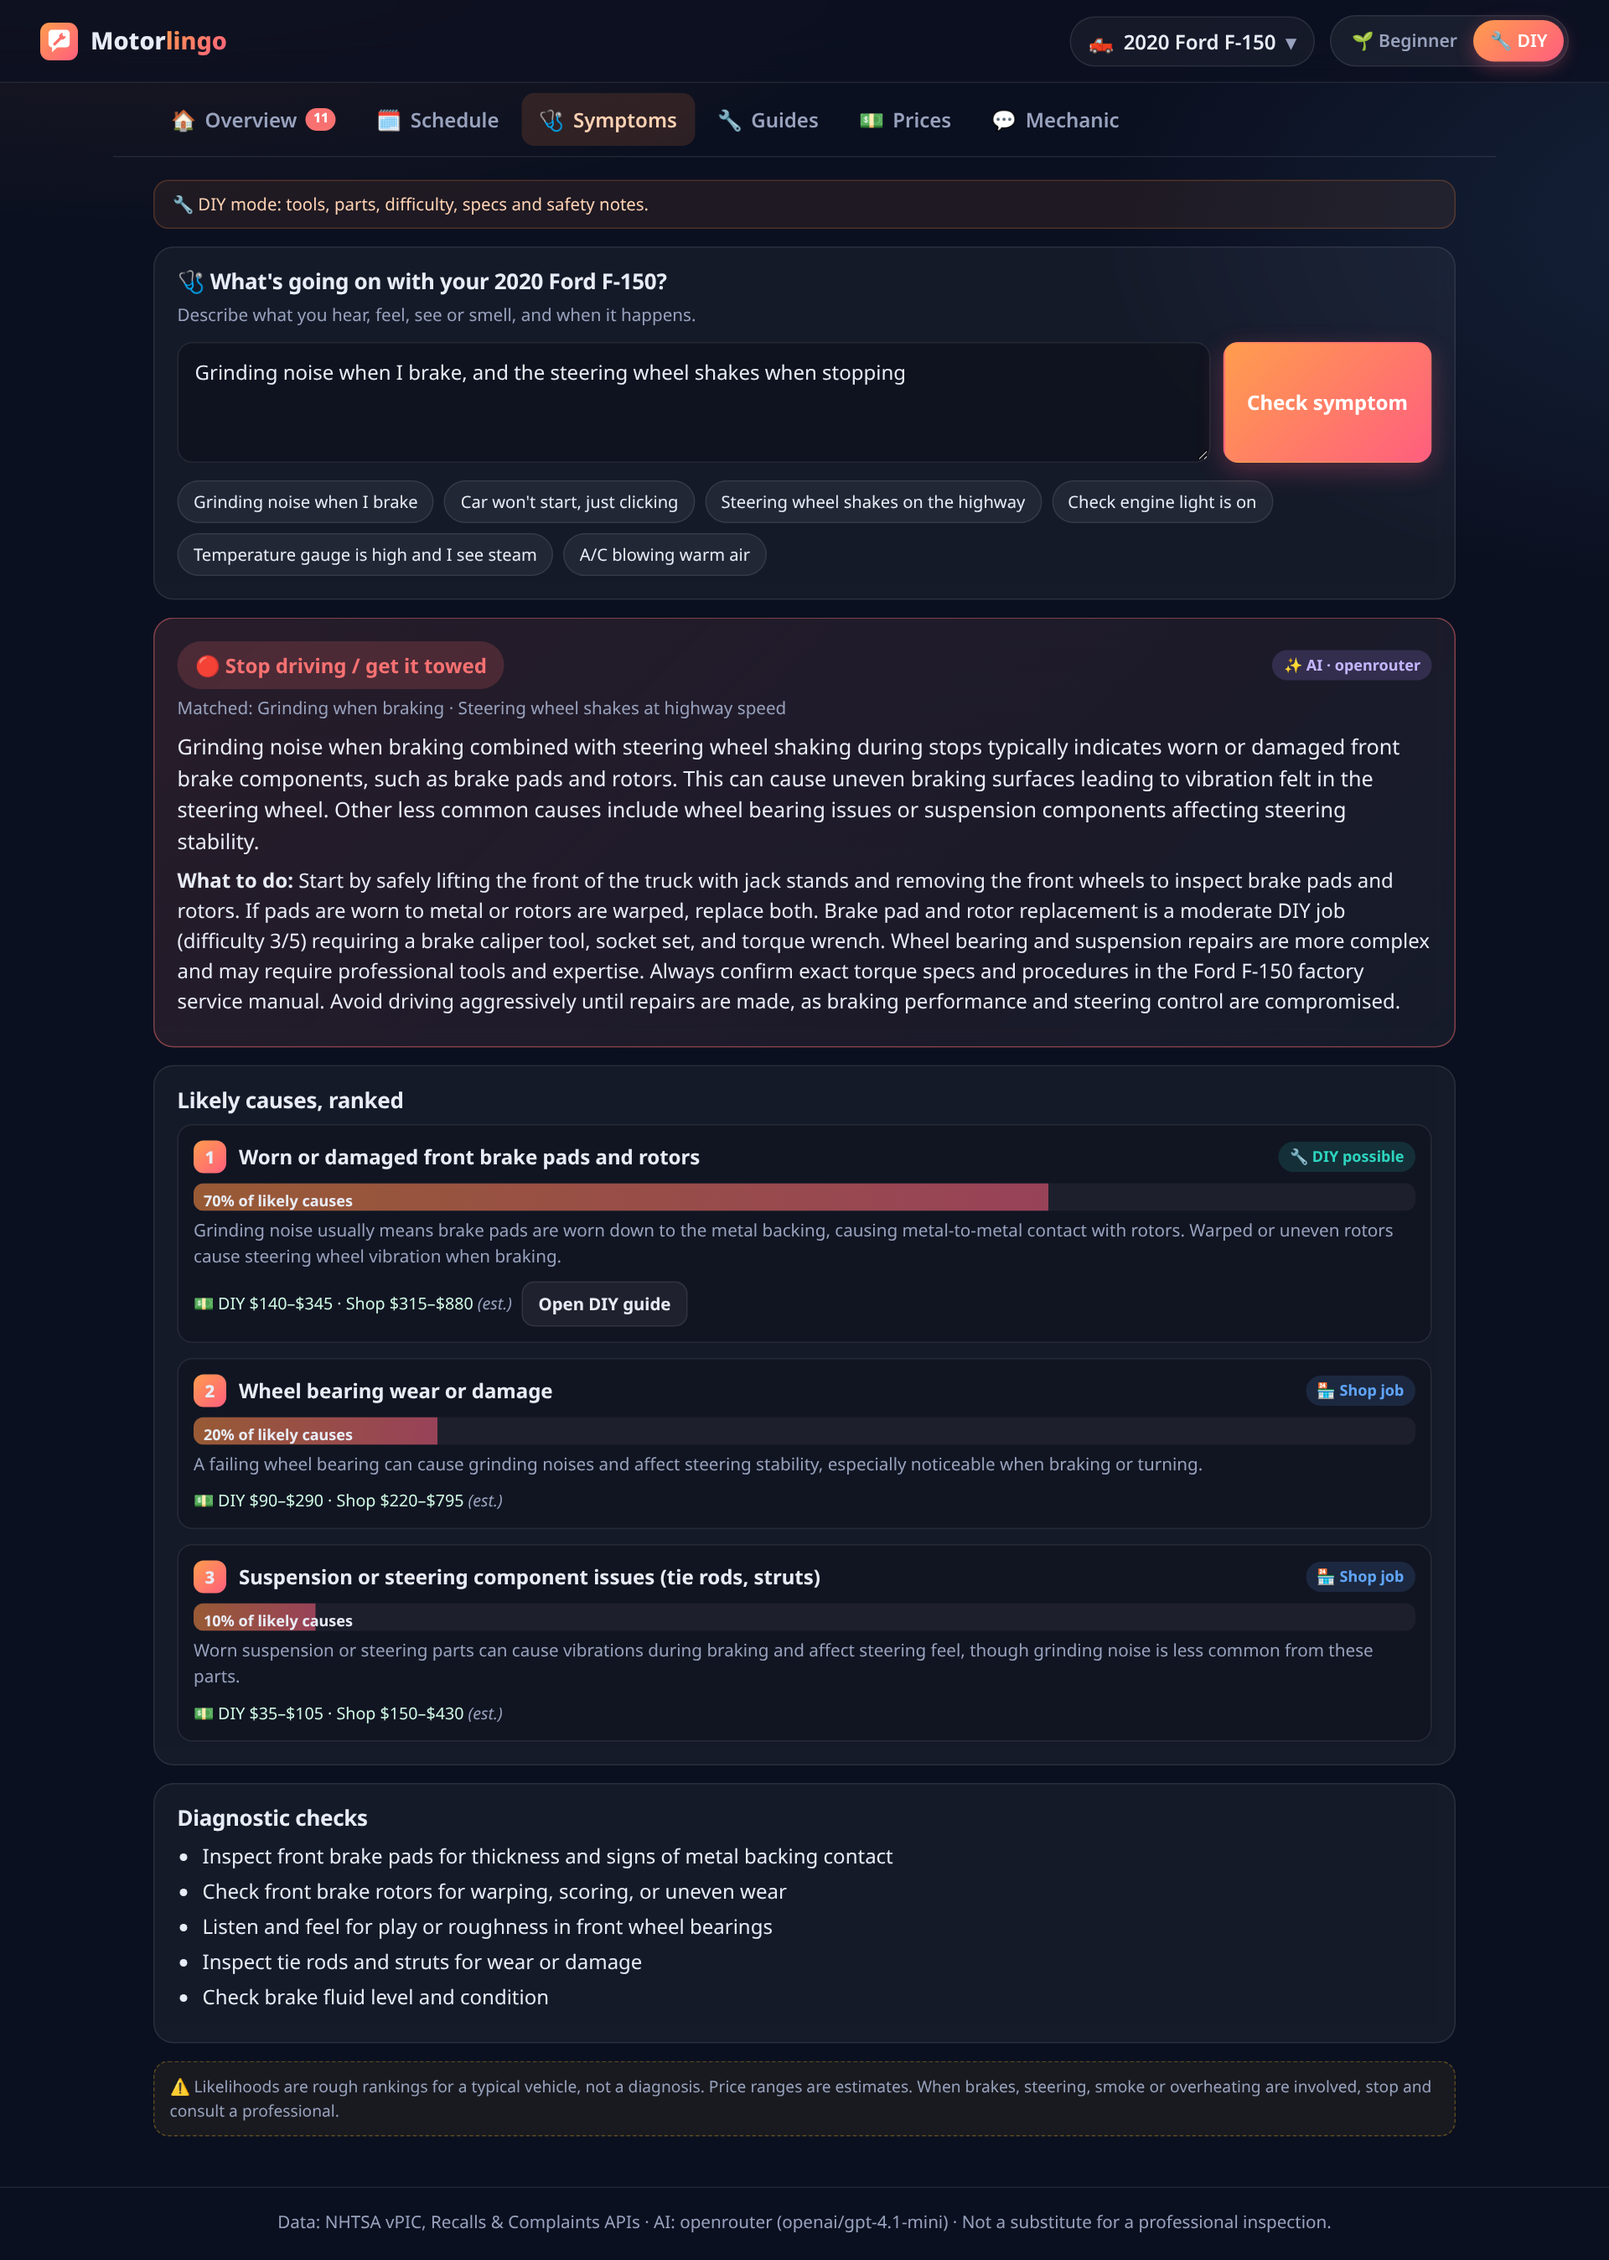
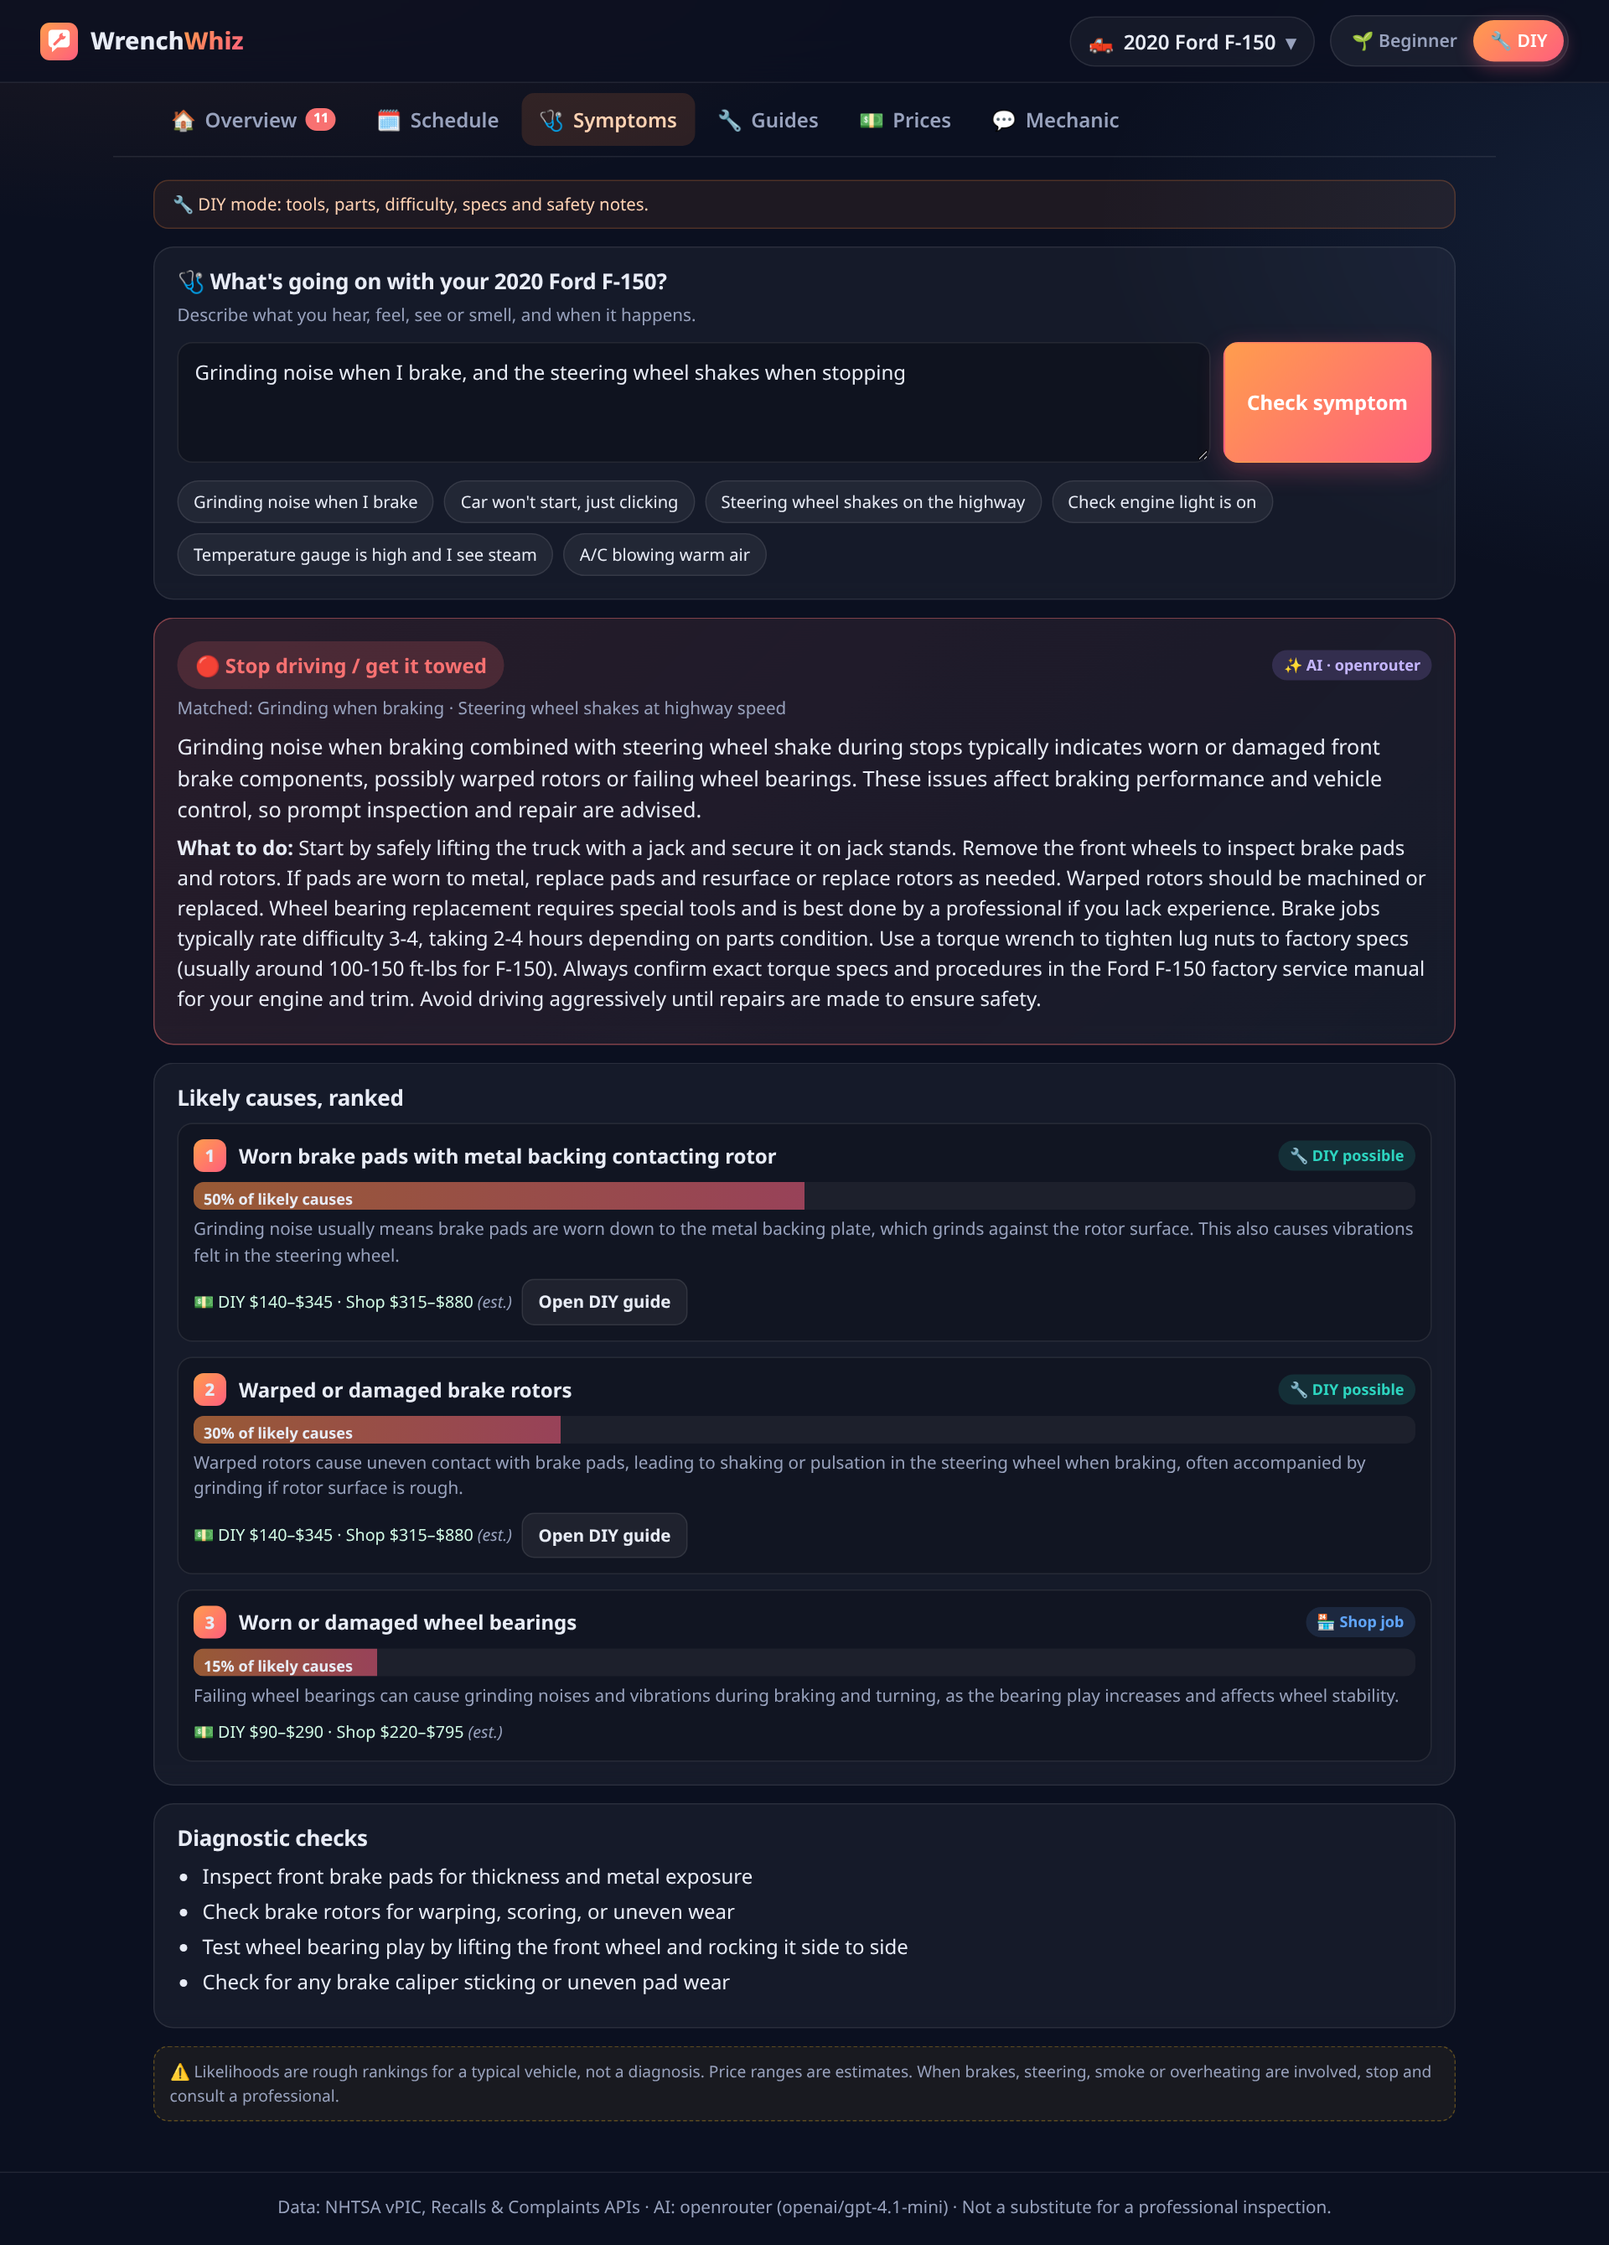
Rename to WrenchWhiz

diff --git a/server/assistant.js b/server/assistant.js
@@ -168,7 +168,7 @@ export async function chat({ vehicle, mode, messages = [], context = {} }) {
   const last = [...messages].reverse().find((m) => m.role === 'user')?.content || '';
   if (llm.isEnabled()) {
     try {
-      const system = `You are "Motorlingo", a friendly, honest master mechanic chatting with the owner of a ${p.label}. ${modeInstructions(mode)}
+      const system = `You are "WrenchWhiz", a friendly, honest master mechanic chatting with the owner of a ${p.label}. ${modeInstructions(mode)}
 ${vehicleContext(p, { recalls: context.recallSummary })}
 Current mileage (if given): ${context.mileage || 'unknown'}.
 Rules: Be specific to this vehicle where you're confident and say when something varies by engine/trim. Give urgency (safe to drive / fix soon / stop driving) for any symptom. Price figures are rough U.S. estimates, label them as estimates. Never fabricate sources, recalls, TSB numbers or exact torque specs. For brakes, steering, airbags, fuel leaks, high-voltage parts: recommend a professional when in doubt. Use short paragraphs and bullet lists; under 220 words.`;

diff --git a/src/App.jsx b/src/App.jsx
@@ -75,7 +75,7 @@ export default function App() {
         <header className="topbar"><Brand />{ModeToggle}</header>
         <main className="landing-main">
           <section className="hero">
-            <p className="eyebrow">Learn your car's language</p>
+            <p className="eyebrow">Your car, explained</p>
             <h1>Know your car.<br /><span className="grad">Skip the upsell.</span></h1>
             <p className="hero-sub">Pick your car and get a maintenance schedule, a symptom checker, step-by-step DIY guides, fair price ranges and a mechanic you can ask anything, all tuned to your exact year, make and model.</p>
           </section>
@@ -136,7 +136,7 @@ function Brand({ onClick }) {
   return (
     <button className="brand" onClick={onClick}>
       <img src="/favicon.svg" alt="" width="30" height="30" />
-      <span>Motor<span className="grad">lingo</span></span>
+      <span>Wrench<span className="grad">Whiz</span></span>
     </button>
   );
 }

diff --git a/index.html b/index.html
@@ -4,9 +4,9 @@
     <meta charset="UTF-8" />
     <meta name="viewport" content="width=device-width, initial-scale=1.0, viewport-fit=cover" />
     <meta name="theme-color" content="#0b1020" />
-    <meta name="description" content="Motorlingo: learn your car's language. A car repair companion with maintenance schedules, symptom checker, DIY guides, fair price estimates and an AI mechanic for your exact car." />
+    <meta name="description" content="WrenchWhiz: your car, explained. A car repair companion with maintenance schedules, symptom checker, DIY guides, fair price estimates and an AI mechanic for your exact car." />
     <link rel="icon" href="/favicon.svg" />
-    <title>Motorlingo · Learn your car's language</title>
+    <title>WrenchWhiz · Your car, explained</title>
   </head>
   <body>
     <div id="root"></div>

diff --git a/server/llm.js b/server/llm.js
@@ -32,7 +32,7 @@ const providers = {
     complete(opts) {
       const extraHeaders = {
         'HTTP-Referer': process.env.OPENROUTER_SITE_URL || 'http://localhost:5180',
-        'X-Title': process.env.OPENROUTER_APP_NAME || 'Motorlingo',
+        'X-Title': process.env.OPENROUTER_APP_NAME || 'WrenchWhiz',
       };
       return openAICompatible({ label: 'OpenRouter', baseUrl: process.env.OPENROUTER_BASE_URL || 'https://openrouter.ai/api/v1', key: this.key(), model: this.model(), extraHeaders }, opts);
     },

diff --git a/server/nhtsa.js b/server/nhtsa.js
@@ -12,7 +12,7 @@ async function getJSON(url) {
   const ctrl = new AbortController();
   const timer = setTimeout(() => ctrl.abort(), 15000);
   try {
-    const res = await fetch(url, { signal: ctrl.signal, headers: { 'User-Agent': 'Motorlingo-demo/1.0' } });
+    const res = await fetch(url, { signal: ctrl.signal, headers: { 'User-Agent': 'WrenchWhiz-demo/1.0' } });
     if (!res.ok) throw new Error(`NHTSA ${res.status} for ${url}`);
     const v = await res.json();
     cache.set(url, { t: Date.now(), v });

diff --git a/server/index.js b/server/index.js
@@ -98,6 +98,6 @@ if (fs.existsSync(dist)) {
 const PORT = Number(process.env.PORT) || 5180;
 app.listen(PORT, () => {
   const ai = llm.providerInfo();
-  console.log(`Motorlingo running at http://localhost:${PORT}`);
+  console.log(`WrenchWhiz running at http://localhost:${PORT}`);
   console.log(ai.enabled ? `AI: ${ai.provider} (${ai.model})` : 'AI: off (no OPENROUTER_API_KEY / OPENAI_API_KEY / ANTHROPIC_API_KEY) - using built-in knowledge base');
 });

diff --git a/README.md b/README.md
@@ -1,10 +1,10 @@
 <div align="center">
 
-<img src="public/favicon.svg" width="72" alt="Motorlingo logo" />
+<img src="public/favicon.svg" width="72" alt="WrenchWhiz logo" />
 
-# Motorlingo
+# WrenchWhiz
 
-**Learn your car's language.** Know your car, skip the upsell.
+**Your car, explained.** Know your car, skip the upsell.
 
 A car repair companion for people who don't know much about cars, and for beginners who want to learn to fix their own.
 Pick any year, make and model and get a maintenance schedule, a symptom checker, step-by-step DIY guides, fair price estimates, live safety recalls and an AI mechanic that already knows which car you drive.
@@ -16,13 +16,13 @@ Pick any year, make and model and get a maintenance schedule, a symptom checker,
 ![Data](https://img.shields.io/badge/Data-NHTSA-1f6feb)
 ![License](https://img.shields.io/badge/License-MIT-green)
 
-<img src="screenshots/01-home-picker.png" width="860" alt="Motorlingo home screen with year/make/model picker" />
+<img src="screenshots/01-home-picker.png" width="860" alt="WrenchWhiz home screen with year/make/model picker" />
 
 </div>
 
 ## Why I built it
 
-Most people who walk into a repair shop can't tell if a $650 brake quote is fair, if a noise means "stop driving now", or if they could do the job themselves in 20 minutes. Motorlingo turns public vehicle data and curated mechanic knowledge into plain-English answers for your exact car. It also helps you learn: a **DIY mode** switches every screen to tools, parts, specs and step-by-step instructions.
+Most people who walk into a repair shop can't tell if a $650 brake quote is fair, if a noise means "stop driving now", or if they could do the job themselves in 20 minutes. WrenchWhiz turns public vehicle data and curated mechanic knowledge into plain-English answers for your exact car. It also helps you learn: a **DIY mode** switches every screen to tools, parts, specs and step-by-step instructions.
 
 ## Features
 
@@ -80,8 +80,8 @@ React (Vite) SPA  ──►  Express API  ──┬──►  NHTSA APIs (vPIC m
 Requires **Node.js 18+**.
 
 ```bash
-git clone https://github.com/namanagp/motorlingo.git
-cd motorlingo
+git clone https://github.com/namanagp/wrenchwhiz.git
+cd wrenchwhiz
 npm install
 npm start        # builds the frontend and serves everything at http://localhost:5180
 ```
@@ -101,7 +101,7 @@ Copy `.env.example` to `.env` and set **one** key. Real environment variables ov
 |---|---|---|
 | `OPENROUTER_API_KEY` | Enables AI via OpenRouter (preferred when several keys are set) | none |
 | `OPENROUTER_MODEL` | Any model ID from `https://openrouter.ai/api/v1/models` | `openai/gpt-4.1-mini` |
-| `OPENROUTER_SITE_URL` / `OPENROUTER_APP_NAME` | Sent as `HTTP-Referer` / `X-Title` attribution headers | `http://localhost:5180` / `Motorlingo` |
+| `OPENROUTER_SITE_URL` / `OPENROUTER_APP_NAME` | Sent as `HTTP-Referer` / `X-Title` attribution headers | `http://localhost:5180` / `WrenchWhiz` |
 | `OPENAI_API_KEY`, `OPENAI_MODEL`, `OPENAI_BASE_URL` | OpenAI or any OpenAI-compatible API | `gpt-4o-mini` |
 | `ANTHROPIC_API_KEY`, `ANTHROPIC_MODEL` | Anthropic | `claude-haiku-4-5` |
 | `LLM_PROVIDER` | Force `openrouter`, `openai` or `anthropic` | auto |
@@ -130,7 +130,7 @@ Copy `.env.example` to `.env` and set **one** key. Real environment variables ov
 - Timing belt/chain and CVT detection uses a rules table for popular models. AI answers can be wrong, and the app labels them clearly.
 - Some trim-specific model names may not match NHTSA's recall data. Check your VIN at [nhtsa.gov/recalls](https://www.nhtsa.gov/recalls).
 
-> ⚠ **Motorlingo gives general guidance, not a professional inspection.** For brakes, steering, suspension, tires, fuel systems, airbags and high-voltage EV components, consult a qualified mechanic. Use at your own risk.
+> ⚠ **WrenchWhiz gives general guidance, not a professional inspection.** For brakes, steering, suspension, tires, fuel systems, airbags and high-voltage EV components, consult a qualified mechanic. Use at your own risk.
 
 ## License
 
